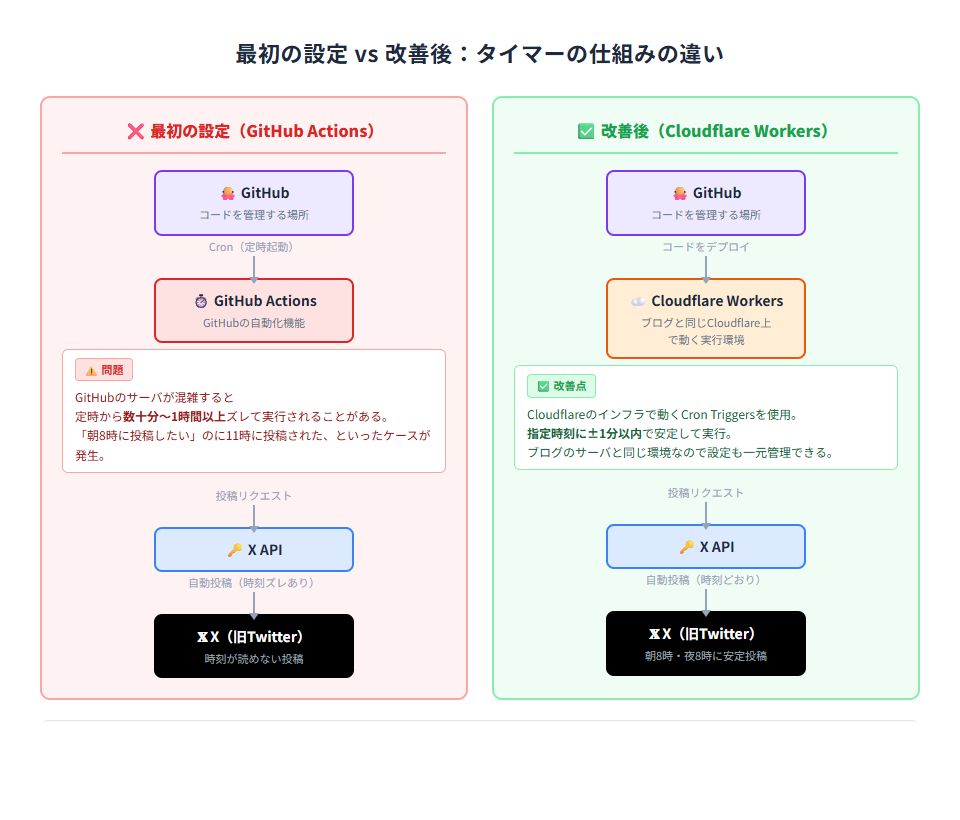
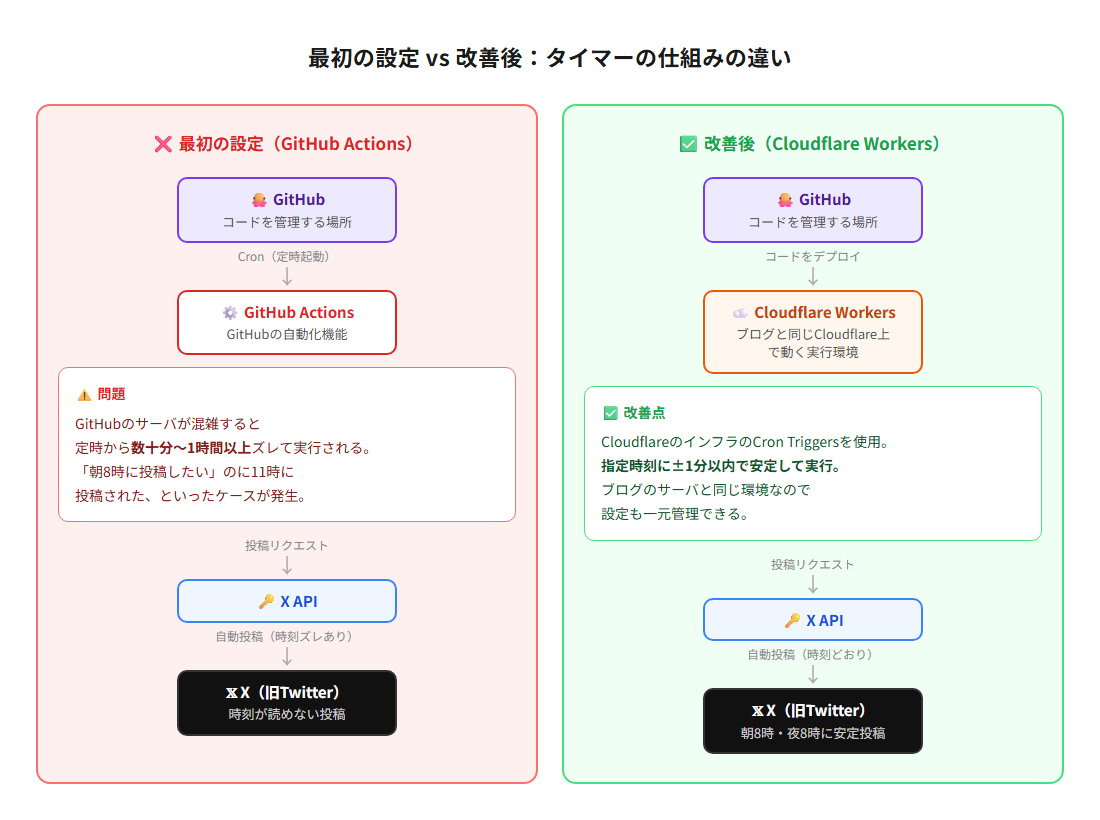
fix: enlarge text in x-autopost comparison diagram for readability

diff --git a/tmp-diagram/x-autopost-comparison.html b/tmp-diagram/x-autopost-comparison.html
@@ -1,0 +1,260 @@
+<!DOCTYPE html>
+<html lang="ja">
+<head>
+<meta charset="UTF-8">
+<style>
+  * { box-sizing: border-box; margin: 0; padding: 0; }
+  body {
+    width: 1100px;
+    background: #ffffff;
+    font-family: "Hiragino Kaku Gothic Pro", "Noto Sans JP", "Yu Gothic", sans-serif;
+    padding: 40px 36px 48px;
+    color: #1a1a1a;
+  }
+
+  h1 {
+    text-align: center;
+    font-size: 22px;
+    font-weight: bold;
+    margin-bottom: 32px;
+    color: #1a1a1a;
+    letter-spacing: 0.02em;
+  }
+
+  .cols {
+    display: flex;
+    gap: 24px;
+  }
+
+  .panel {
+    flex: 1;
+    border-radius: 14px;
+    padding: 24px 20px 28px;
+    display: flex;
+    flex-direction: column;
+    align-items: center;
+    gap: 0;
+  }
+
+  .panel-bad {
+    background: #fff0f0;
+    border: 2px solid #f87171;
+  }
+
+  .panel-good {
+    background: #f0fff4;
+    border: 2px solid #4ade80;
+  }
+
+  .panel-title {
+    font-size: 17px;
+    font-weight: bold;
+    margin-bottom: 22px;
+    text-align: center;
+  }
+  .panel-bad .panel-title  { color: #dc2626; }
+  .panel-good .panel-title { color: #16a34a; }
+
+  /* ノード（四角ボックス） */
+  .node {
+    border-radius: 10px;
+    padding: 10px 18px;
+    text-align: center;
+    width: 220px;
+  }
+  .node-label {
+    font-size: 15px;
+    font-weight: bold;
+    line-height: 1.3;
+  }
+  .node-sub {
+    font-size: 13px;
+    color: #555;
+    margin-top: 4px;
+    line-height: 1.4;
+  }
+
+  .node-github {
+    background: #ede9fe;
+    border: 2px solid #7c3aed;
+  }
+  .node-github .node-label { color: #4c1d95; }
+
+  .node-actions {
+    background: #fff;
+    border: 2px solid #dc2626;
+  }
+  .node-actions .node-label { color: #dc2626; }
+
+  .node-workers {
+    background: #fff7ed;
+    border: 2px solid #ea580c;
+  }
+  .node-workers .node-label { color: #c2410c; }
+
+  .node-api {
+    background: #eff6ff;
+    border: 2px solid #3b82f6;
+  }
+  .node-api .node-label { color: #1d4ed8; }
+
+  .node-x {
+    background: #111;
+    border: 2px solid #333;
+    color: #fff;
+  }
+  .node-x .node-label { color: #fff; }
+  .node-x .node-sub    { color: #ccc; }
+
+  /* 矢印 */
+  .arrow-wrap {
+    display: flex;
+    flex-direction: column;
+    align-items: center;
+    margin: 4px 0;
+  }
+  .arrow-label {
+    font-size: 12px;
+    color: #888;
+    margin-bottom: 2px;
+  }
+  .arrow {
+    font-size: 20px;
+    color: #aaa;
+    line-height: 1;
+  }
+
+  /* 問題・改善点ボックス */
+  .callout {
+    border-radius: 10px;
+    padding: 14px 16px;
+    width: 100%;
+    margin: 10px 0;
+    font-size: 14px;
+    line-height: 1.7;
+  }
+  .callout-title {
+    font-size: 14px;
+    font-weight: bold;
+    margin-bottom: 6px;
+    display: flex;
+    align-items: center;
+    gap: 6px;
+  }
+  .callout-bad {
+    background: #fff;
+    border: 1.5px solid #f87171;
+    color: #7f1d1d;
+  }
+  .callout-bad .callout-title { color: #dc2626; }
+
+  .callout-good {
+    background: #fff;
+    border: 1.5px solid #4ade80;
+    color: #14532d;
+  }
+  .callout-good .callout-title { color: #16a34a; }
+</style>
+</head>
+<body>
+  <h1>最初の設定 vs 改善後：タイマーの仕組みの違い</h1>
+
+  <div class="cols">
+
+    <!-- 左：GitHub Actions（問題あり） -->
+    <div class="panel panel-bad">
+      <div class="panel-title">❌ 最初の設定（GitHub Actions）</div>
+
+      <div class="node node-github">
+        <div class="node-label">🐙 GitHub</div>
+        <div class="node-sub">コードを管理する場所</div>
+      </div>
+
+      <div class="arrow-wrap">
+        <div class="arrow-label">Cron（定時起動）</div>
+        <div class="arrow">↓</div>
+      </div>
+
+      <div class="node node-actions">
+        <div class="node-label">⚙ GitHub Actions</div>
+        <div class="node-sub">GitHubの自動化機能</div>
+      </div>
+
+      <div class="callout callout-bad" style="margin-top:12px;">
+        <div class="callout-title">⚠ 問題</div>
+        GitHubのサーバが混雑すると<br>
+        定時から<strong>数十分〜1時間以上</strong>ズレて実行される。<br>
+        「朝8時に投稿したい」のに11時に<br>
+        投稿された、といったケースが発生。
+      </div>
+
+      <div class="arrow-wrap">
+        <div class="arrow-label">投稿リクエスト</div>
+        <div class="arrow">↓</div>
+      </div>
+
+      <div class="node node-api">
+        <div class="node-label">🔑 X API</div>
+      </div>
+
+      <div class="arrow-wrap">
+        <div class="arrow-label">自動投稿（時刻ズレあり）</div>
+        <div class="arrow">↓</div>
+      </div>
+
+      <div class="node node-x">
+        <div class="node-label">𝕏 X（旧Twitter）</div>
+        <div class="node-sub">時刻が読めない投稿</div>
+      </div>
+    </div>
+
+    <!-- 右：Cloudflare Workers（改善後） -->
+    <div class="panel panel-good">
+      <div class="panel-title">✅ 改善後（Cloudflare Workers）</div>
+
+      <div class="node node-github">
+        <div class="node-label">🐙 GitHub</div>
+        <div class="node-sub">コードを管理する場所</div>
+      </div>
+
+      <div class="arrow-wrap">
+        <div class="arrow-label">コードをデプロイ</div>
+        <div class="arrow">↓</div>
+      </div>
+
+      <div class="node node-workers">
+        <div class="node-label">☁ Cloudflare Workers</div>
+        <div class="node-sub">ブログと同じCloudflare上<br>で動く実行環境</div>
+      </div>
+
+      <div class="callout callout-good" style="margin-top:12px;">
+        <div class="callout-title">✅ 改善点</div>
+        CloudflareのインフラのCron Triggersを使用。<br>
+        <strong>指定時刻に±1分以内で安定して実行。</strong><br>
+        ブログのサーバと同じ環境なので<br>
+        設定も一元管理できる。
+      </div>
+
+      <div class="arrow-wrap">
+        <div class="arrow-label">投稿リクエスト</div>
+        <div class="arrow">↓</div>
+      </div>
+
+      <div class="node node-api">
+        <div class="node-label">🔑 X API</div>
+      </div>
+
+      <div class="arrow-wrap">
+        <div class="arrow-label">自動投稿（時刻どおり）</div>
+        <div class="arrow">↓</div>
+      </div>
+
+      <div class="node node-x">
+        <div class="node-label">𝕏 X（旧Twitter）</div>
+        <div class="node-sub">朝8時・夜8時に安定投稿</div>
+      </div>
+    </div>
+
+  </div>
+</body>
+</html>
